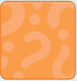
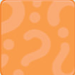
[touch: 549] Moved tile border outside of tile image in Memory Match SI. Added end sequence when all pairs found in Memory Match SI.

diff --git a/Shared/SCHStoryInteractionControllerConcentration.m b/Shared/SCHStoryInteractionControllerConcentration.m
@@ -14,14 +14,17 @@
 #import "NSArray+Shuffling.h"
 
 #define kTileGap 5
+#define kBorderWidth 2
+#define kCornerRadius 8
 
 @interface SCHStoryInteractionControllerConcentration ()
 
 @property (nonatomic, assign) NSInteger numberOfPairs;
+@property (nonatomic, assign) NSInteger numberOfPairsFound;
+@property (nonatomic, assign) NSInteger numberOfFlips;
 @property (nonatomic, assign) UIView *firstFlippedTile;
 
 - (void)setupPuzzleView;
-- (void)addLayerBorder:(CALayer *)layer;
 - (void)matchTile:(UIView *)tile withTile:(UIView *)tile;
 
 @end
@@ -31,7 +34,10 @@
 @synthesize levelButtons;
 @synthesize flipContainer;
 @synthesize flipCounterLabel;
+@synthesize startOverButton;
 @synthesize numberOfPairs;
+@synthesize numberOfPairsFound;
+@synthesize numberOfFlips;
 @synthesize firstFlippedTile;
 
 - (void)dealloc
@@ -39,6 +45,7 @@
     [levelButtons release], levelButtons = nil;
     [flipContainer release], flipContainer = nil;
     [flipCounterLabel release], flipCounterLabel = nil;
+    [startOverButton release], startOverButton = nil;
     [super dealloc];
 }
 
@@ -51,6 +58,18 @@
     }
 }
 
+- (void)storyInteractionDisableUserInteraction
+{
+    self.flipContainer.userInteractionEnabled = NO;
+    self.startOverButton.userInteractionEnabled = NO;
+}
+
+- (void)storyInteractionEnableUserInteraction
+{
+    self.flipContainer.userInteractionEnabled = YES;
+    self.startOverButton.userInteractionEnabled = YES;
+}
+
 #pragma mark - Difficulty selection
 
 - (void)levelButtonTapped:(id)sender
@@ -60,6 +79,23 @@
 }
 
 #pragma mark - Puzzle view
+
+- (CALayer *)layerWithImage:(UIImage *)image inSize:(CGSize)size
+{
+    CALayer *layer = [CALayer layer];
+    layer.bounds = (CGRect){CGPointZero, size};
+    layer.contents = (id)[image CGImage];
+    layer.contentsGravity = kCAGravityCenter;
+    layer.doubleSided = NO;
+
+    layer.borderWidth = kBorderWidth;
+    layer.borderColor = [[UIColor SCHOrange1Color] CGColor];
+    layer.cornerRadius = kCornerRadius;
+    layer.masksToBounds = YES;
+    layer.backgroundColor = layer.borderColor;
+
+    return layer;
+}
 
 - (void)setupPuzzleView
 {
@@ -77,7 +113,7 @@
     
     // TODO different tiles for each level
     UIImage *tileBackImage = [UIImage imageNamed:@"storyinteraction-concentration-tile-orange.png"];
-    CGSize tileSize = tileBackImage.size;
+    CGSize tileSize = CGSizeMake(tileBackImage.size.width+kBorderWidth*2, tileBackImage.size.height+kBorderWidth*2);
     
     CGSize layoutSize = CGSizeMake(tileSize.width*cols + kTileGap*(cols-1),
                                    tileSize.height*rows + kTileGap*(rows-1));
@@ -109,22 +145,14 @@
             tile.center = CGPointMake(floorf(left+(tileSize.width+kTileGap)*col+tileSize.width/2),
                                       floorf(top+(tileSize.height+kTileGap)*row+tileSize.height/2));
             tile.tag = index/2;
-            
-            CALayer *back = [CALayer layer];
+
+            CALayer *back = [self layerWithImage:tileBackImage inSize:tileSize];
             back.position = layerPosition;
-            back.bounds = tile.bounds;
-            back.contents = (id)[tileBackImage CGImage];
-            back.doubleSided = NO;
-            [self addLayerBorder:back];
             [tile.layer addSublayer:back];
             
-            CALayer *front = [CALayer layer];
-            front.position = back.position;
-            front.bounds = back.bounds;
+            CALayer *front = [self layerWithImage:image inSize:tileSize];
+            front.position = layerPosition;
             front.transform = CATransform3DMakeRotation(M_PI, 0, 1, 0);
-            front.contents = (id)[image CGImage];
-            front.doubleSided = NO;
-            [self addLayerBorder:front];
             [tile.layer addSublayer:front];
             
             [self.flipContainer addSubview:tile];
@@ -135,14 +163,9 @@
             [tile release];
         }
     }
-}
-
-- (void)addLayerBorder:(CALayer *)layer
-{
-    layer.borderWidth = 2;
-    layer.borderColor = [[UIColor SCHOrange1Color] CGColor];
-    layer.cornerRadius = 6;
-    layer.masksToBounds = YES;
+    
+    self.numberOfPairsFound = 0;
+    self.controllerState = SCHStoryInteractionControllerStateInteractionInProgress;
 }
 
 - (void)startOverTapped:(id)sender
@@ -187,6 +210,16 @@
                         fromBundle:YES];
         [tile1 setUserInteractionEnabled:NO];
         [tile2 setUserInteractionEnabled:NO];
+        if (++self.numberOfPairsFound == self.numberOfPairs) {
+            [self enqueueAudioWithPath:[(SCHStoryInteractionConcentration *)self.storyInteraction audioPathForYouGotThemAll]
+                            fromBundle:NO
+                            startDelay:0
+                synchronizedStartBlock:nil
+                  synchronizedEndBlock:^{
+                      self.controllerState = SCHStoryInteractionControllerStateInteractionFinishedSuccessfully;
+                      [self removeFromHostView];
+                  }];
+        }
     } else {
         // flip the tiles back
         [self enqueueAudioWithPath:[self.storyInteraction storyInteractionWrongAnswerSoundFilename]
@@ -195,7 +228,7 @@
             synchronizedStartBlock:nil
               synchronizedEndBlock:^{
                   [tile1.layer addAnimation:[self flipAnimationFrom:M_PI to:0] forKey:@"flipBack"];
-                  [tile2.layer addAnimation:[self flipAnimationFrom:M_PI to:0] forKey:@"flipBacl"];
+                  [tile2.layer addAnimation:[self flipAnimationFrom:M_PI to:0] forKey:@"flipBack"];
                   tile1.layer.transform = CATransform3DIdentity;
                   tile2.layer.transform = CATransform3DIdentity;
               }];

diff --git a/Shared/SCHStoryInteractionConcentration.m b/Shared/SCHStoryInteractionConcentration.m
@@ -28,15 +28,20 @@
     return @"Memory Match";
 }
 
+- (NSInteger)numberOfPairs
+{
+    return 12;
+}
+
 - (NSString *)audioPathForIntroduction
 {
     NSString *filename = [NSString stringWithFormat:@"%@_intro.mp3", self.ID];
     return [KNFBXPSStoryInteractionsDirectory stringByAppendingPathComponent:filename];
 }
 
-- (NSInteger)numberOfPairs
+- (NSString *)audioPathForYouGotThemAll
 {
-    return 12;
+    return [KNFBXPSStoryInteractionsDirectory stringByAppendingPathComponent:@"gen_gotthemall.mp3"];
 }
 
 - (NSString *)imagePathForFirstOfPairAtIndex:(NSInteger)index

diff --git a/Shared/SCHStoryInteractionControllerConcentration.h b/Shared/SCHStoryInteractionControllerConcentration.h
@@ -12,6 +12,7 @@
 
 @property (nonatomic, retain) IBOutletCollection(UIButton) NSArray *levelButtons;
 @property (nonatomic, retain) IBOutlet UIView *flipContainer;
+@property (nonatomic, retain) IBOutlet UIButton *startOverButton;
 @property (nonatomic, retain) IBOutlet UILabel *flipCounterLabel;
 
 - (IBAction)levelButtonTapped:(id)sender;

diff --git a/Shared/SCHStoryInteractionConcentration.h b/Shared/SCHStoryInteractionConcentration.h
@@ -13,6 +13,7 @@
 @property (nonatomic, retain) NSString *introduction;
 
 - (NSString *)audioPathForIntroduction;
+- (NSString *)audioPathForYouGotThemAll;
 
 - (NSInteger)numberOfPairs;
 - (NSString *)imagePathForFirstOfPairAtIndex:(NSInteger)index;
